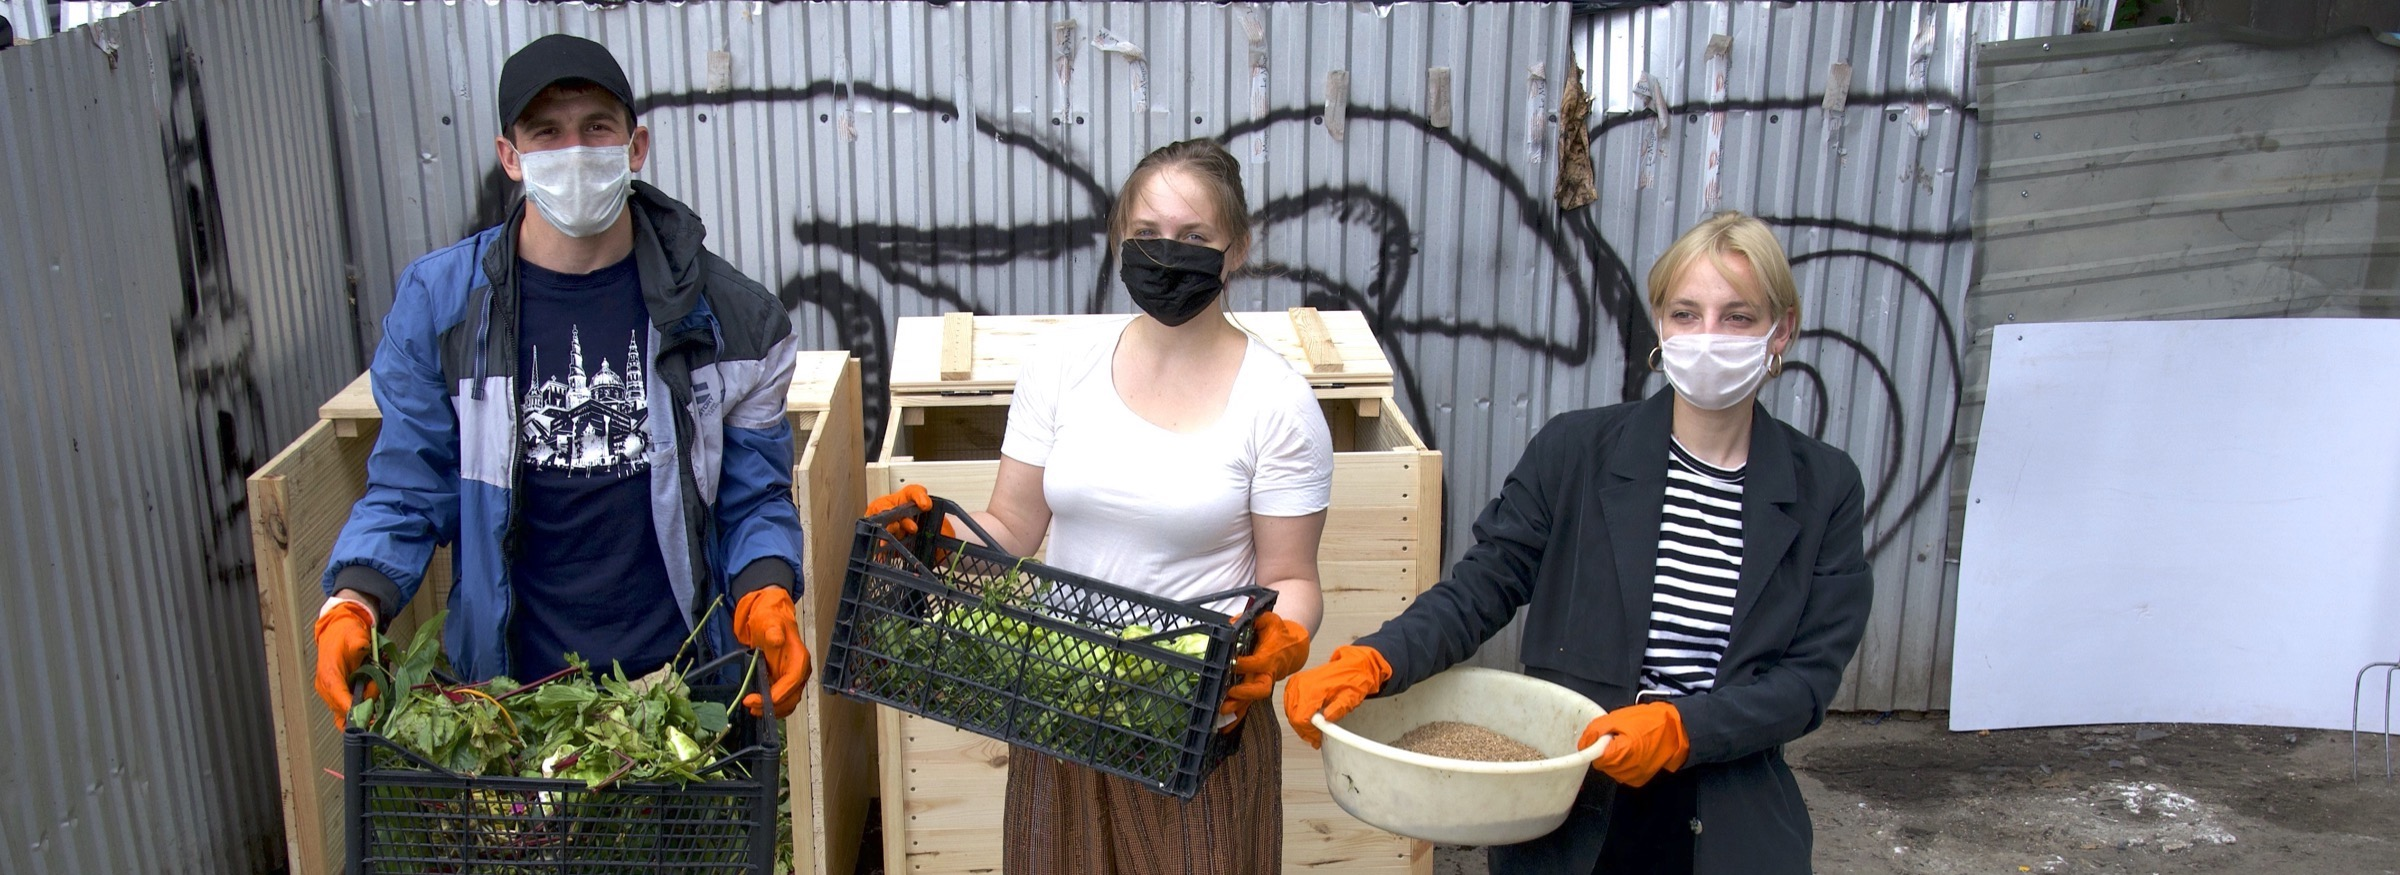
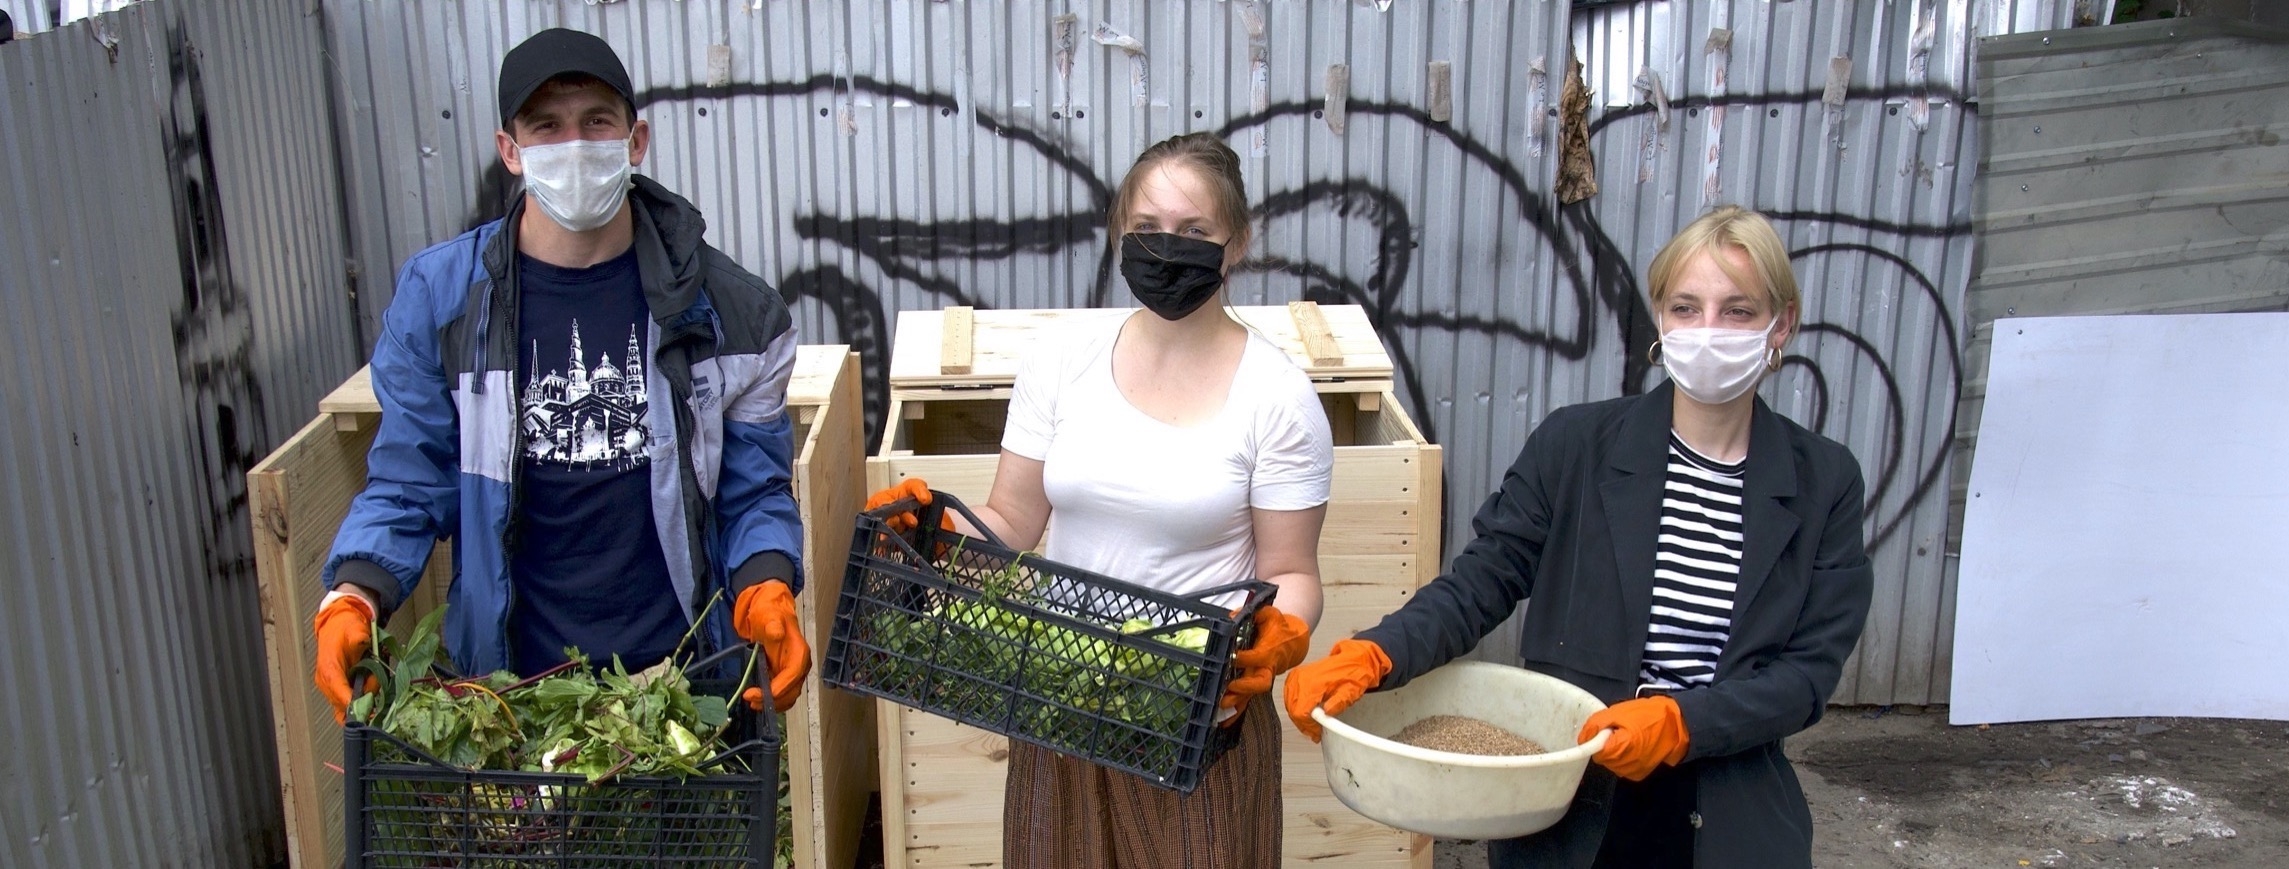
/urban-safari upd

diff --git a/projects/urban-safari/index.html b/projects/urban-safari/index.html
@@ -88,7 +88,7 @@
 </div>
 
 
-<div class="container-fluid project-background-fluid fill" style="background-image: url('assets/cover-main.jpg');"></div>
+<div class="container-fluid project-background-fluid fill" style="background-image: url('assets/cover-main.jpg'); background-position: top;"></div>
 
 
 
@@ -108,23 +108,36 @@
   </div>  
 </div>
 
+<style type="text/css">
+  .project-number {
+    position: absolute;
+    left: -90px;
+    font-size: 70px;
+    font-weight: 700;
+    /*color: #CFCFCF;*/
+  }
+  .project-number-mobile {
 
+    font-size: 35px;
+    font-weight: 700;
+    /*color: #CFCFCF;*/
+  }
+  
+</style>
 
-<div class="container">
-
-
-    <div class="timeline-image">
-      <a href="1-research"><img class="w-100 mb-4 mt-3" src="composter/assets/cover-main.jpg"></a>
-    </div>
-    <div class="timeline-header">
+<div class="container mt-5 mb-5">
+  <div class="row">
+    <div class="col-lg-8 col-12">
+      <span class="project-number-mobile d-md-none d-sm-block">#1</span>
+      <span class="project-number d-md-block d-sm-none">#1</span>
+      <a href="composter"><img class="w-100 mb-4 mt-3" src="composter/assets/og.jpg"></a>
       <a href="composter"><h3 class="timeline-header">Компостер на Житньому ринку</h3></a>
-    </div>
-    <div class="timeline-content">
-      <p>Компостер на&nbsp;Житньому ринку має перетворювати незручні органічні відходи на цінний ресурс&nbsp;— компост.
-      </p>
-    </div>
-    <div class="timeline-date">Листопад 2019 — Липень 2020</div>
+      <p>Компостер на&nbsp;Житньому ринку має перетворювати незручні органічні відходи на цінний ресурс&nbsp;— компост.</p>
+    
 
+      <div class="timeline-date">Листопад 2019 — Липень 2020</div>
+    </div>
+ </div>
 </div>
 
 

diff --git a/projects/urban-safari/composter/index.html b/projects/urban-safari/composter/index.html
@@ -88,7 +88,7 @@
 </div>
 
 
-<div class="container-fluid project-background-fluid fill" style="background-image: url('assets/cover-main.jpg');"></div>
+<div class="container-fluid project-background-fluid fill" style="background-image: url('assets/cover-main.jpg'); background-position: 50% 25%;"></div>
 
 
 

diff --git a/css/style.css b/css/style.css
@@ -1466,7 +1466,6 @@ li {
 }
 
 
-
 }
 
 
